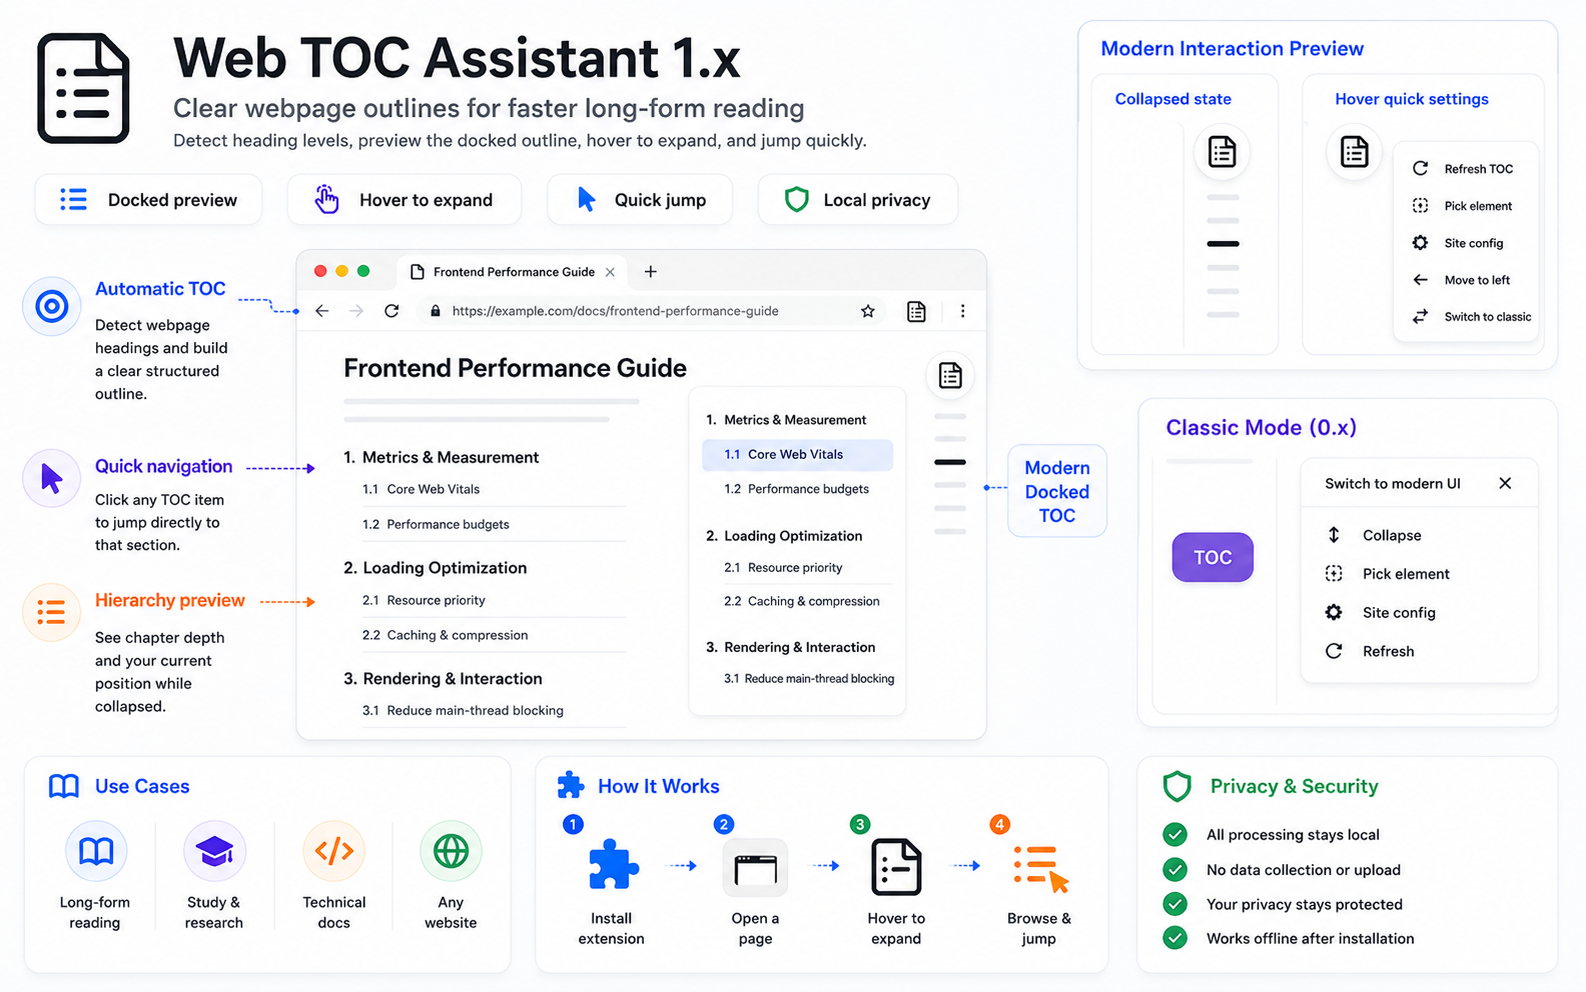
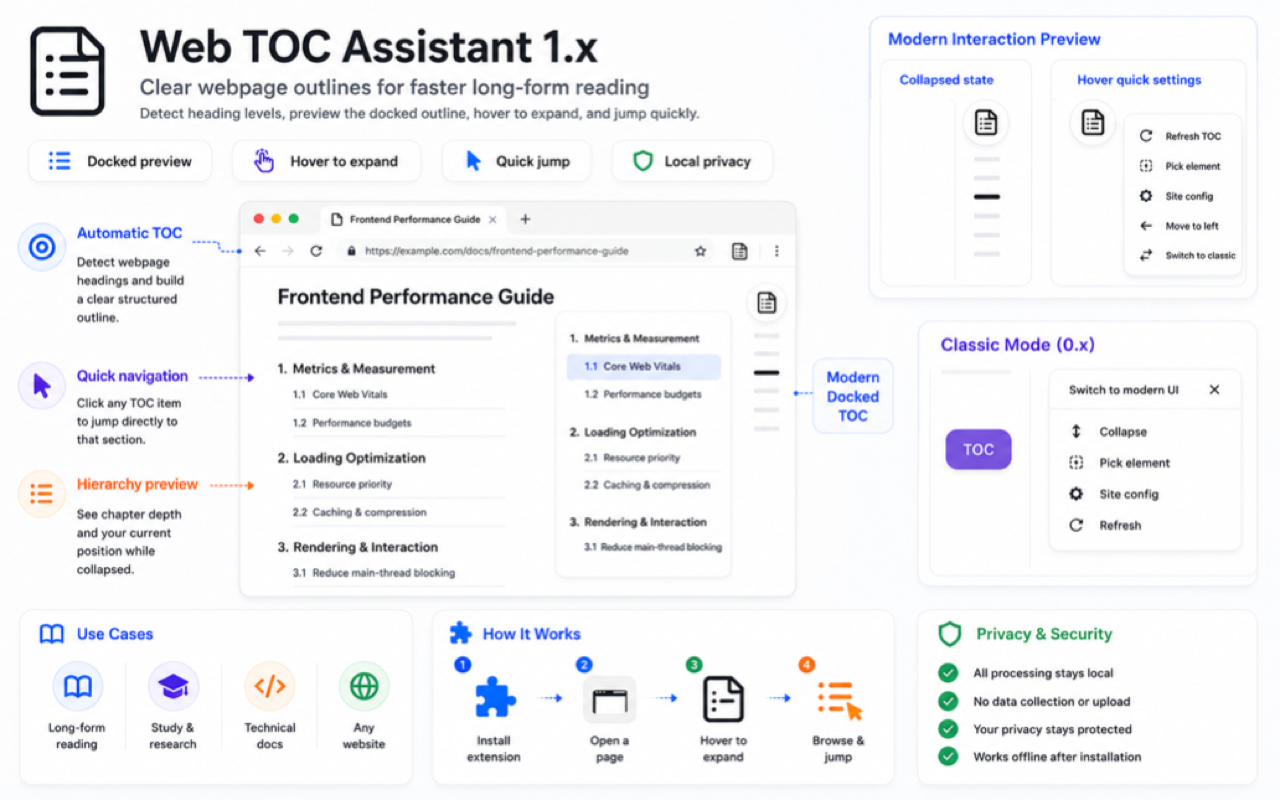
docs: update reviewer notes and store intro images

diff --git a/docs/PRIMARY_FOR_REVIEWERS.md b/docs/PRIMARY_FOR_REVIEWERS.md
@@ -1,17 +1,32 @@
-No user account or login is required to test this extension. It functions immediately upon installation.
+No user account or login is required. The extension works immediately after installation.
 
-## Testing Instructions
+## Testing Steps
 
-1. **Navigate to a structured webpage:** Visit any long article, documentation page, or a Wikipedia entry (e.g., https://en.wikipedia.org/wiki/Google).
+1. Open a content-heavy page (e.g. https://en.wikipedia.org/wiki/Google).
 
-2. **Activate:** Click the extension icon in the browser toolbar. The toolbar icon turns from gray (disabled) to blue (enabled), and an Edge Dock badge appears at the right edge of the page.
+2. Click the extension icon in the browser toolbar. The transparent white-document icon turns black (enabled), and a small badge appears at the right edge of the viewport.
 
-3. **Interact:** Hover over the Edge Dock badge to expand the Table of Contents panel. Click any TOC item to scroll to that section. The active heading is highlighted as you scroll.
+3. Hover over the badge to expand the Table of Contents panel. Click any TOC item to scroll to that section. The active heading is highlighted as you scroll.
 
-4. **Settings:** Toggle the "Enable on this site" switch in the extension popup menu. All preferences are stored locally via `chrome.storage.local`.
+4. Click the badge again to disable — the icon turns gray and the badge disappears.
 
-## Permissions Note
+5. Per-site toggle: The extension can be enabled/disabled independently on each website. State persists across page reloads.
 
-The extension uses host permissions solely to scan the DOM for heading elements (h1–h6) and to render the floating navigation UI. No data is collected, transmitted, or sent to any remote server. The extension makes zero outbound network requests.
+## Key Features to Verify
 
-For a full permission justification and privacy disclosure, see `docs/CHROME_WEB_STORE_SUBMISSION.md`.
+- Auto-generated TOC from page headings (h1–h6)
+- Custom CSS/XPath selectors via the element picker (gear icon → settings)
+- Edge Dock and Classic UI modes (gear icon → settings → UI mode)
+- Collapse/expand panel, vertical dock repositioning by dragging
+- Works on SPA sites (URL changes are detected automatically)
+
+## Permissions Justification
+
+- storage: Per-site enabled state and user preferences
+- tabs: Determine active tab URL for per-site logic
+- scripting: Inject content script dynamically
+- host_permissions (http/https): Read DOM headings and render floating UI. No data is collected, transmitted, or sent externally. Zero outbound network requests.
+
+## Dependencies
+
+None. The extension is fully self-contained with no external services, APIs, or accounts.